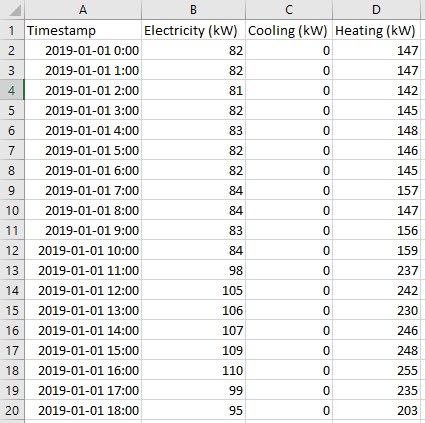
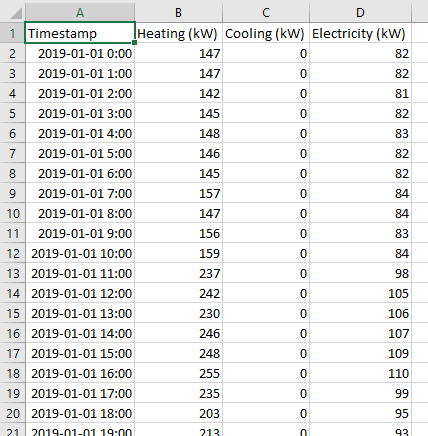
Revised description of energy baseline inputs

Changed region(s): [[0.0, 0.0, 1.0, 1.0]]

diff --git a/templates/functions_energyBaseline_inputs.html b/templates/functions_energyBaseline_inputs.html
@@ -200,9 +200,10 @@
       </div>
     </div>
     <p class="fs-6 pt-4">This function requires <u>hourly</u> energy meter data. The first column should contain the timestamp at which energy consumption is measured. The timestamp must include the numerical date and 
-      time and in the following format: [yyyy-mm-dd hh-mm]. The second column should contain the measured power consumption for electricity only. The third column should contain the measured power consumption for cooling only. The fourth column should contain the measured power 
-      consumption for heating only.</p>
+      time and in the following format: [yyyy-mm-dd hh-mm]. The second column should contain the measured power consumption for heating use only. The third column should contain the measured power consumption for cooling use only. The fourth column should contain the measured power 
+      consumption for electricity use only. The column containing electricity consumption may be omitted if the building does not meet the criteria* for performing an electricity use analysis.</p>
     <p class="fs-6">Only one (1) CSV file containing energy meter data for the whole building must be supplied to this function.</p>
+    <p class="fs-6">*<sup>Energy use comparison for electricity is valid only for buildings with on-site electricity-based cooling and without electricity-based heating.</sup></p>
     
     <p class="h3 fw-normal">Weather</p>
     <p class="fs-6">The energy baseline function also requires outdoor weather data. These data record the outdoor air temperature within the building's geographic vicinity. The data must be formatted as seen in Figure 2.

diff --git a/templates/functions_energyBaseline_overview.html b/templates/functions_energyBaseline_overview.html
@@ -194,7 +194,7 @@
       temperatures - these are done separately for heating, cooling, and electricity*. Key performance indicators (KPIs) are calculated which compare the change of energy use rates with respect to outdoor air temperature between workhours and 
       after-hours energy use, and the ratio of after-hours energy use to total energy use.</p>
     
-    <p class="fs-6">*<sup>Energy use comparison for electricity is available only for buildings with on-site electricity-based cooling and without electricity-based heating.</sup></p>
+    <p class="fs-6">*<sup>Energy use comparison for electricity is valid only for buildings with on-site electricity-based cooling and without electricity-based heating.</sup></p>
 
     <!-- Footer -->
     <footer class="pt-4 my-md-5 pt-md-5 border-top">
